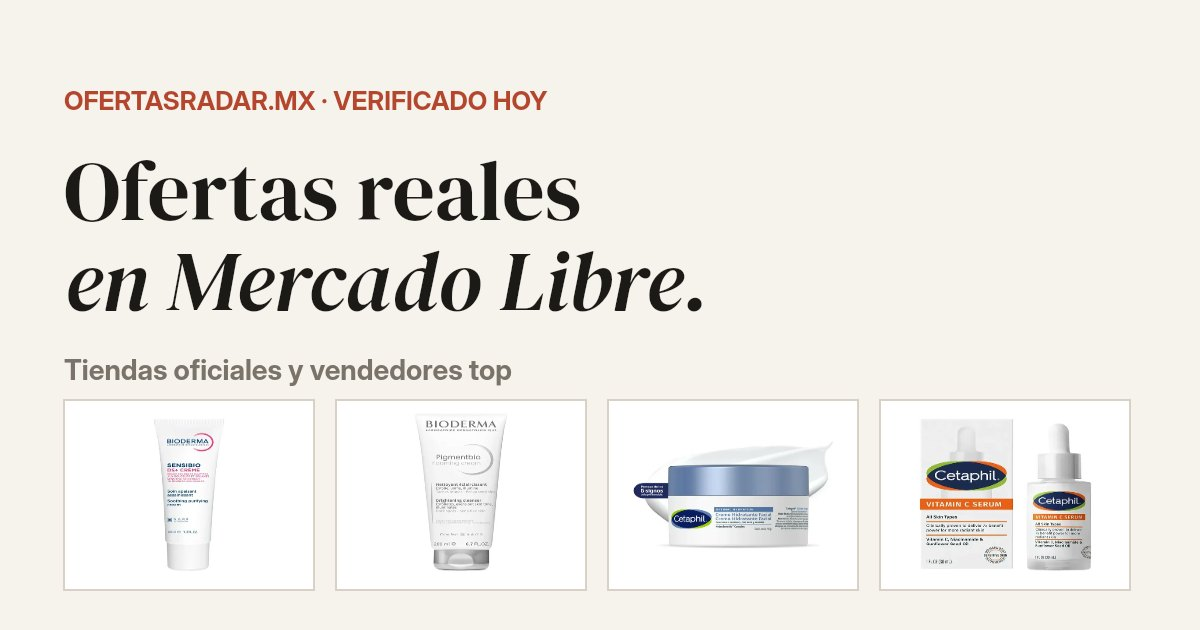
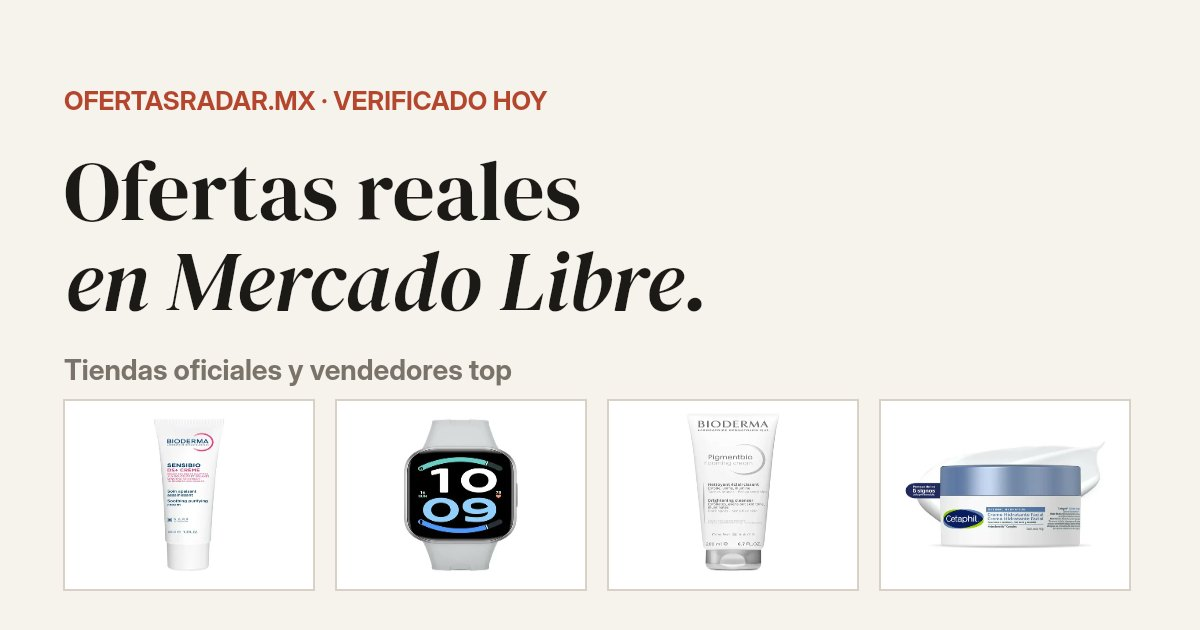
Ofertas al 17 nov 2026 (61 ofertas)

Changed region(s): [[0.74, 0.6635, 0.925, 0.9048], [0.5242, 0.6635, 0.7092, 0.9048], [0.3392, 0.6635, 0.4317, 0.9048]]

diff --git a/index.html b/index.html
@@ -159,7 +159,7 @@ footer a { font-weight: 700; color: var(--tinta); }
       <a class="ver" href="#megas">Ver las ofertas ↓</a>
     </div>
     <div class="radar"><button type="button" class="blip" style="left:72%;top:26%" aria-label="Ver una oferta al azar"></button><button type="button" class="blip b2" style="left:24%;top:64%" aria-label="Ver una oferta al azar"></button><button type="button" class="blip b3" style="left:80%;top:70%" aria-label="Ver una oferta al azar"></button><button type="button" class="blip b4" style="left:34%;top:20%" aria-label="Ver una oferta al azar"></button><p class="pista">Toca un punto: oferta al azar</p><div class="centro" aria-hidden="true"><img src="logo.png" alt="" width="192" height="192"></div></div>
-    <div class="cinta" aria-hidden="true"><div><span>Bioderma</span><span>Cetaphil</span><span>Neutrogena</span><span>Clinique</span><span>MAC</span><span>Nivea</span><span>Yuya</span><span>Bioderma</span><span>Cetaphil</span><span>Neutrogena</span><span>Clinique</span><span>MAC</span><span>Nivea</span><span>Yuya</span></div></div>
+    <div class="cinta" aria-hidden="true"><div><span>Bioderma</span><span>Cetaphil</span><span>Neutrogena</span><span>Clinique</span><span>Xiaomi</span><span>Krups</span><span>Ninja</span><span>JBL</span><span>Samsung</span><span>MAC</span><span>Nivea</span><span>Yuya</span><span>Bioderma</span><span>Cetaphil</span><span>Neutrogena</span><span>Clinique</span><span>Xiaomi</span><span>Krups</span><span>Ninja</span><span>JBL</span><span>Samsung</span><span>MAC</span><span>Nivea</span><span>Yuya</span></div></div>
   </div>
   <a class="canal" href="https://whatsapp.com/channel/0029VbDg7woLtOjGkAVMZi3C" target="_blank" rel="noopener">
     <svg viewBox="0 0 32 32" aria-hidden="true"><circle cx="16" cy="16" r="16" fill="#25D366"/><path fill="#fff" d="M16 7.2a8.7 8.7 0 0 0-7.5 13.2L7.3 25l4.7-1.2A8.7 8.7 0 1 0 16 7.2Zm0 15.9c-1.3 0-2.6-.4-3.7-1l-.3-.2-2.8.7.8-2.7-.2-.3a7.2 7.2 0 1 1 6.2 3.5Zm4-5.4c-.2-.1-1.3-.6-1.5-.7-.2-.1-.3-.1-.5.1l-.7.9c-.1.1-.3.2-.5.1a5.9 5.9 0 0 1-2.9-2.6c-.2-.4.2-.4.6-1.2.1-.1 0-.3 0-.4l-.7-1.6c-.2-.4-.4-.4-.5-.4h-.4a.8.8 0 0 0-.6.3 2.5 2.5 0 0 0-.8 1.9c0 1.1.8 2.2.9 2.3.1.2 1.6 2.4 3.9 3.4 1.4.6 2 .7 2.7.6.4-.1 1.3-.5 1.5-1.1.2-.5.2-1 .1-1.1l-.4-.2Z"/></svg>
@@ -210,7 +210,7 @@ footer a { font-weight: 700; color: var(--tinta); }
   <h2>Todas las <em>ofertas</em></h2>
   <p class="h2sub">Toca una para verla en Mercado Libre.</p>
   <div>
-  <nav class="chips" aria-label="Categorías"><button class="chip on" data-f="todo">Todo</button><button class="chip" data-f="belleza">Belleza</button></nav>
+  <nav class="chips" aria-label="Categorías"><button class="chip on" data-f="todo">Todo</button><button class="chip" data-f="belleza">Belleza</button><button class="chip" data-f="casa">Hogar</button><button class="chip" data-f="tech">Tech</button></nav>
   <section class="grid" id="ofertas">
 <article class="card" data-cat="belleza">
   <a class="ph" href="https://meli.la/16peB7X" target="_blank" rel="sponsored noopener"><img src="img/bio-pigment-foam.jpg" alt="Limpiador exfoliante antimanchas Bioderma Pigmentbio Foaming Cream 200 ml" loading="lazy" width="480" height="480"><span class="tag">-54%</span></a>
@@ -341,6 +341,127 @@ footer a { font-weight: 700; color: var(--tinta); }
     <p class="precio"><b>$297</b><s>$542</s></p>
     <p class="meta">★ 4.5 · +1000 vendidos</p>
     <a class="btn" href="https://meli.la/1twEPis" target="_blank" rel="sponsored noopener">Ver oferta →</a>
+    <p class="pie">Precio al 17 nov · puede cambiar</p>
+  </div>
+</article>
+<article class="card" data-cat="casa">
+  <a class="ph" href="https://meli.la/2VNwDQa" target="_blank" rel="sponsored noopener"><img src="img/xiaomi-robot-h50.jpg" alt="Robot aspiradora y trapeador Xiaomi Robot Vacuum H50 con autovaciado y autolavado" loading="lazy" width="480" height="480"><span class="tag">-33%</span></a>
+  <div class="info">
+    <p class="marca">Xiaomi <span class="of">✓ Oficial</span></p>
+    <h3>Robot aspiradora y trapeador Xiaomi Robot Vacuum H50 con autovaciado y autolavado</h3>
+    <p class="precio"><b>$6,628</b><s>$9,999</s></p>
+    <p class="meta">★ 4.8 · +500 vendidos</p>
+    <a class="btn" href="https://meli.la/2VNwDQa" target="_blank" rel="sponsored noopener">Ver oferta →</a>
+    <p class="pie">Precio al 17 nov · puede cambiar</p>
+  </div>
+</article>
+<article class="card" data-cat="casa">
+  <a class="ph" href="https://meli.la/2amXMbu" target="_blank" rel="sponsored noopener"><img src="img/krups-genio-s.jpg" alt="Cafetera de cápsulas Krups Dolce Gusto Genio S, más de 25 bebidas" loading="lazy" width="480" height="480"><span class="tag">-38%</span></a>
+  <div class="info">
+    <p class="marca">Krups <span class="of">✓ Oficial</span></p>
+    <h3>Cafetera de cápsulas Krups Dolce Gusto Genio S, más de 25 bebidas</h3>
+    <p class="precio"><b>$1,599</b><s>$2,599</s></p>
+    <p class="meta">★ 4.9 · +1000 vendidos</p>
+    <a class="btn" href="https://meli.la/2amXMbu" target="_blank" rel="sponsored noopener">Ver oferta →</a>
+    <p class="pie">Precio al 17 nov · puede cambiar</p>
+  </div>
+</article>
+<article class="card" data-cat="casa">
+  <a class="ph" href="https://meli.la/33mZ5XQ" target="_blank" rel="sponsored noopener"><img src="img/ninja-af-xl.jpg" alt="Freidora de aire Ninja XL 5.5 qt con 7 funciones" loading="lazy" width="480" height="480"><span class="tag">-50%</span></a>
+  <div class="info">
+    <p class="marca">Ninja <span class="of">✓ Oficial</span></p>
+    <h3>Freidora de aire Ninja XL 5.5 qt con 7 funciones</h3>
+    <p class="precio"><b>$1,799</b><s>$3,599</s></p>
+    <p class="meta">★ 4.9 · +1000 vendidos</p>
+    <a class="btn" href="https://meli.la/33mZ5XQ" target="_blank" rel="sponsored noopener">Ver oferta →</a>
+    <p class="pie">Precio al 17 nov · puede cambiar</p>
+  </div>
+</article>
+<article class="card" data-cat="casa">
+  <a class="ph" href="https://meli.la/24q3oR7" target="_blank" rel="sponsored noopener"><img src="img/ninja-crispi.jpg" alt="Freidora de aire Ninja Crispi de vidrio 4 en 1" loading="lazy" width="480" height="480"><span class="tag">-41%</span></a>
+  <div class="info">
+    <p class="marca">Ninja <span class="of">✓ Oficial</span></p>
+    <h3>Freidora de aire Ninja Crispi de vidrio 4 en 1</h3>
+    <p class="precio"><b>$2,631</b><s>$4,499</s></p>
+    <p class="meta">★ 4.9 · +1000 vendidos</p>
+    <a class="btn" href="https://meli.la/24q3oR7" target="_blank" rel="sponsored noopener">Ver oferta →</a>
+    <p class="pie">Precio al 17 nov · puede cambiar</p>
+  </div>
+</article>
+<article class="card" data-cat="tech">
+  <a class="ph" href="https://meli.la/11Ak76Q" target="_blank" rel="sponsored noopener"><img src="img/jbl-flip7.jpg" alt="Bocina portátil JBL Flip 7 Bluetooth a prueba de agua" loading="lazy" width="480" height="480"><span class="tag">-45%</span></a>
+  <div class="info">
+    <p class="marca">JBL <span class="of">✓ Oficial</span></p>
+    <h3>Bocina portátil JBL Flip 7 Bluetooth a prueba de agua</h3>
+    <p class="precio"><b>$1,799</b><s>$3,299</s></p>
+    <p class="meta">★ 4.9 · +10 mil vendidos</p>
+    <a class="btn" href="https://meli.la/11Ak76Q" target="_blank" rel="sponsored noopener">Ver oferta →</a>
+    <p class="pie">Precio al 17 nov · puede cambiar</p>
+  </div>
+</article>
+<article class="card" data-cat="tech">
+  <a class="ph" href="https://meli.la/2Nsq2qu" target="_blank" rel="sponsored noopener"><img src="img/jbl-charge6.jpg" alt="Bocina portátil JBL Charge 6 Bluetooth resistente al agua" loading="lazy" width="480" height="480"><span class="tag">-35%</span></a>
+  <div class="info">
+    <p class="marca">JBL <span class="of">✓ Oficial</span></p>
+    <h3>Bocina portátil JBL Charge 6 Bluetooth resistente al agua</h3>
+    <p class="precio"><b>$2,859</b><s>$4,399</s></p>
+    <p class="meta">★ 5.0 · +100 vendidos</p>
+    <a class="btn" href="https://meli.la/2Nsq2qu" target="_blank" rel="sponsored noopener">Ver oferta →</a>
+    <p class="pie">Precio al 17 nov · puede cambiar</p>
+  </div>
+</article>
+<article class="card" data-cat="tech">
+  <a class="ph" href="https://meli.la/1yBsxic" target="_blank" rel="sponsored noopener"><img src="img/redmi-watch6-active.jpg" alt="Reloj inteligente Redmi Watch 6 Active con pantalla AMOLED 1.85&quot;" loading="lazy" width="480" height="480"><span class="tag">-56%</span></a>
+  <div class="info">
+    <p class="marca">Xiaomi <span class="of">✓ Oficial</span></p>
+    <h3>Reloj inteligente Redmi Watch 6 Active con pantalla AMOLED 1.85&quot;</h3>
+    <p class="precio"><b>$739</b><s>$1,699</s></p>
+    <p class="meta">★ 4.9 · +1000 vendidos</p>
+    <a class="btn" href="https://meli.la/1yBsxic" target="_blank" rel="sponsored noopener">Ver oferta →</a>
+    <p class="pie">Precio al 17 nov · puede cambiar</p>
+  </div>
+</article>
+<article class="card" data-cat="tech">
+  <a class="ph" href="https://meli.la/1qu7NeM" target="_blank" rel="sponsored noopener"><img src="img/xiaomi-band11-active.jpg" alt="Pulsera inteligente Xiaomi Smart Band 11 Active" loading="lazy" width="480" height="480"><span class="tag">-45%</span></a>
+  <div class="info">
+    <p class="marca">Xiaomi <span class="of">✓ Oficial</span></p>
+    <h3>Pulsera inteligente Xiaomi Smart Band 11 Active</h3>
+    <p class="precio"><b>$549</b><s>$1,000</s></p>
+    <p class="meta">★ 4.8 · +500 vendidos</p>
+    <a class="btn" href="https://meli.la/1qu7NeM" target="_blank" rel="sponsored noopener">Ver oferta →</a>
+    <p class="pie">Precio al 17 nov · puede cambiar</p>
+  </div>
+</article>
+<article class="card" data-cat="tech">
+  <a class="ph" href="https://meli.la/1mVcphP" target="_blank" rel="sponsored noopener"><img src="img/samsung-buds4-pro.jpg" alt="Audífonos Samsung Galaxy Buds4 Pro blancos" loading="lazy" width="480" height="480"><span class="tag">-31%</span></a>
+  <div class="info">
+    <p class="marca">Samsung <span class="of">✓ Oficial</span></p>
+    <h3>Audífonos Samsung Galaxy Buds4 Pro blancos</h3>
+    <p class="precio"><b>$2,799</b><s>$4,099</s></p>
+    <p class="meta">★ 4.9 · +1000 vendidos</p>
+    <a class="btn" href="https://meli.la/1mVcphP" target="_blank" rel="sponsored noopener">Ver oferta →</a>
+    <p class="pie">Precio al 17 nov · puede cambiar</p>
+  </div>
+</article>
+<article class="card" data-cat="tech">
+  <a class="ph" href="https://meli.la/2MJzVKk" target="_blank" rel="sponsored noopener"><img src="img/redmi-pad-se.jpg" alt="Tablet Xiaomi Redmi Pad SE 8.7&quot; 4 GB RAM, 128 GB" loading="lazy" width="480" height="480"><span class="tag">-39%</span></a>
+  <div class="info">
+    <p class="marca">Xiaomi <span class="of">✓ Oficial</span></p>
+    <h3>Tablet Xiaomi Redmi Pad SE 8.7&quot; 4 GB RAM, 128 GB</h3>
+    <p class="precio"><b>$1,999</b><s>$3,299</s></p>
+    <p class="meta">★ 4.8 · +500 vendidos</p>
+    <a class="btn" href="https://meli.la/2MJzVKk" target="_blank" rel="sponsored noopener">Ver oferta →</a>
+    <p class="pie">Precio al 17 nov · puede cambiar</p>
+  </div>
+</article>
+<article class="card" data-cat="tech">
+  <a class="ph" href="https://meli.la/1kuEHrU" target="_blank" rel="sponsored noopener"><img src="img/galaxy-watch8-classic.jpg" alt="Smartwatch Samsung Galaxy Watch 8 Classic" loading="lazy" width="480" height="480"><span class="tag">-32%</span></a>
+  <div class="info">
+    <p class="marca">Samsung <span class="of">✓ Oficial</span></p>
+    <h3>Smartwatch Samsung Galaxy Watch 8 Classic</h3>
+    <p class="precio"><b>$5,696</b><s>$8,499</s></p>
+    <p class="meta">★ 4.8 · +1000 vendidos</p>
+    <a class="btn" href="https://meli.la/1kuEHrU" target="_blank" rel="sponsored noopener">Ver oferta →</a>
     <p class="pie">Precio al 17 nov · puede cambiar</p>
   </div>
 </article>
